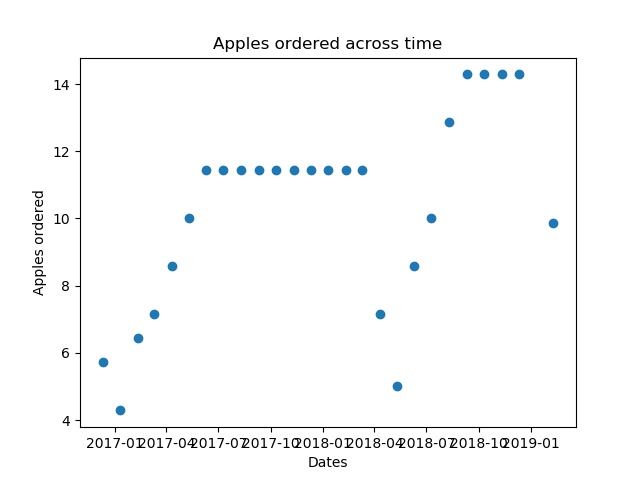
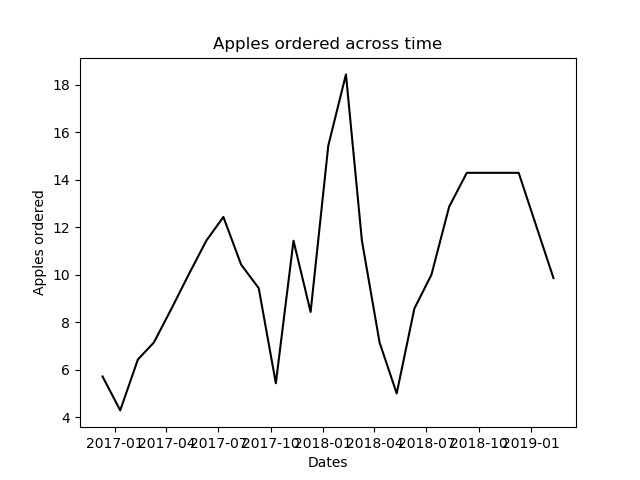
Prettier plot

diff --git a/ooglorp/views.py b/ooglorp/views.py
@@ -95,7 +95,7 @@ def save_wasted():
         #date = datetime(year=int(s[0:4]), month=int(s[0:2]), day=int(s[6:8]))
     x = matplotlib.dates.date2num(dates)
     #print(x, y)
-    plt.plot_date(x,y)
+    plt.plot_date(x,y, 'k')
     plt.xlabel('Dates')
     plt.ylabel('Apples wasted')
     plt.title('Apples wasted across time')
@@ -112,7 +112,7 @@ def save_ordered():
         #date = s.strftime("%Y%m%d")
         #date = datetime(year=int(s[0:4]), month=int(s[0:2]), day=int(s[6:8]))
     x = matplotlib.dates.date2num(dates)
-    plt.plot_date(x, y)
+    plt.plot_date(x, y, 'k')
     plt.xlabel('Dates')
     plt.ylabel('Apples ordered')
     plt.title('Apples ordered across time')
@@ -140,9 +140,11 @@ def feed(request):
 @csrf_exempt
 def stats(request):
     template_name = 'stats.html'
+    plt.clf()
     save_wasted()
     plt.clf()
     save_ordered()
+    plt.clf()
     #if an image is uploaded
     if(request.method == 'POST' and request.POST['order'] is not None):
         order= int(request.POST['order'])
